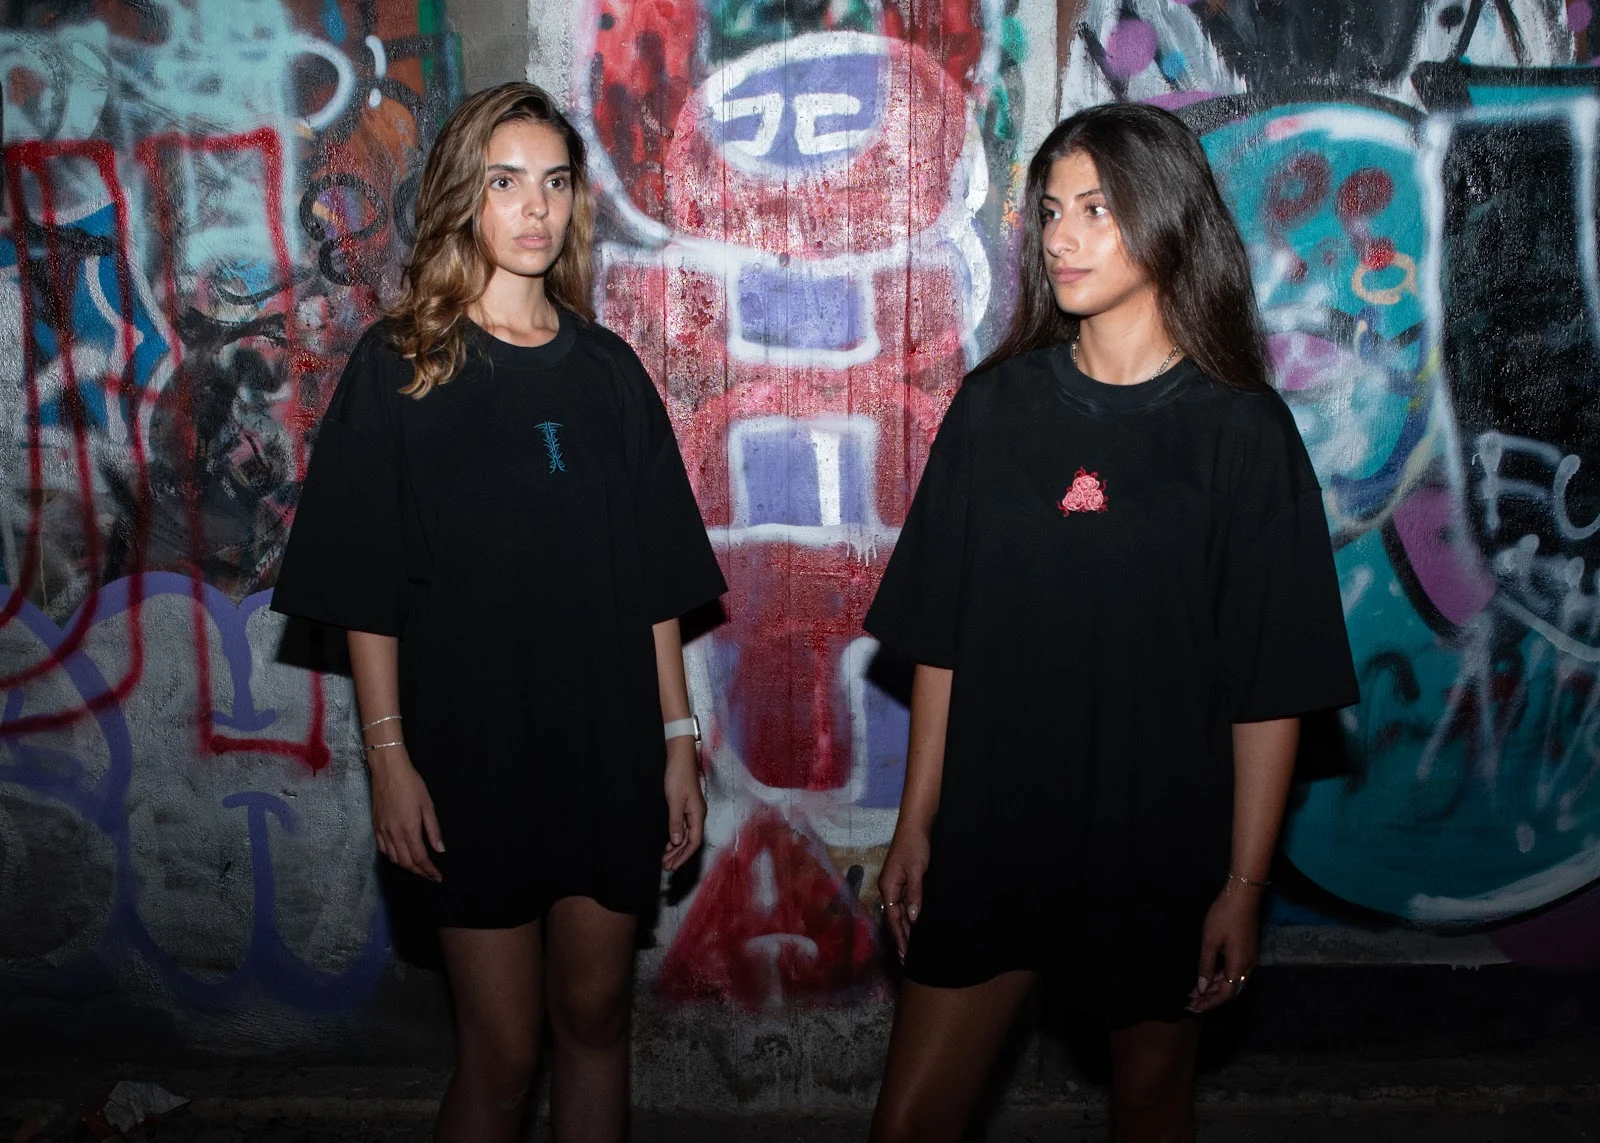
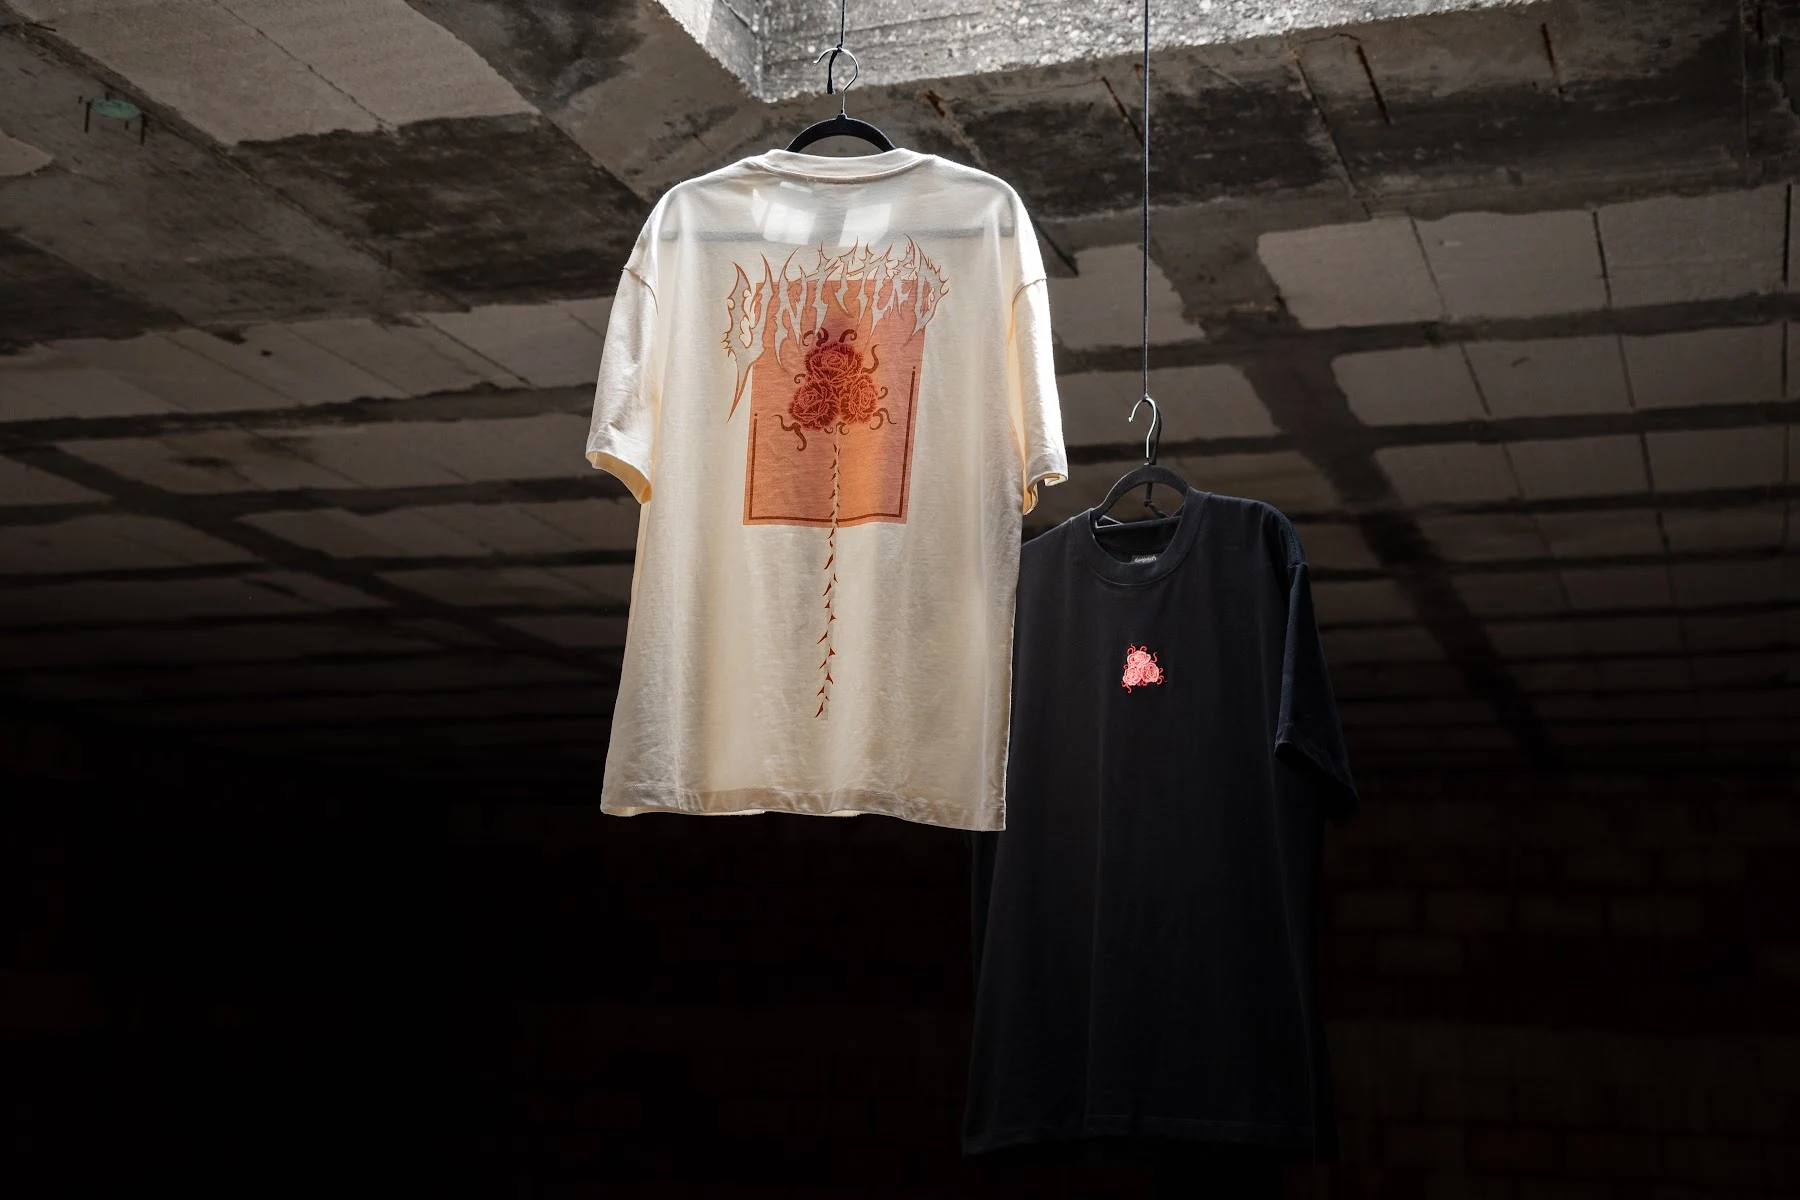
Update StyleShowcase with high-contrast skylight, back-print lineup, and bunker rack images for desktop and mobile

diff --git a/src/components/StyleShowcase.tsx b/src/components/StyleShowcase.tsx
@@ -11,26 +11,27 @@ const SLIDE_SECONDS = 5;
 const SLIDES = [
   {
     src: asset("/images/style-1.webp"),
-    // where the subject's face sits in each frame, so the portrait
-    // crop on mobile keeps it in view instead of slicing it off
-    pos: "50% 24%",
+    mobileSrc: asset("/images/style-1-mobile.webp"),
+    pos: "50% 42%",
     num: "01",
     title: "Heavyweight cotton",
     body: "340gsm, washed and enzyme-softened until it stopped arguing. Holds its shape for years.",
   },
   {
     src: asset("/images/style-2.webp"),
-    pos: "50% 24%",
+    mobileSrc: asset("/images/style-2-mobile.webp"),
+    pos: "50% 35%",
     num: "02",
     title: "Cut to move",
     body: "Oversized through the shoulder, tapered where it counts. It moves before you do.",
   },
   {
     src: asset("/images/style-3.webp"),
-    pos: "50% 30%",
+    mobileSrc: asset("/images/style-3-mobile.webp"),
+    pos: "50% 45%",
     num: "03",
     title: "Small runs only",
-    body: "10 shirts, numbered drops, no restocks. When it's gone, it never existed.",
+    body: "Numbered drops, no restocks. When it's gone, it never existed.",
   },
 ];
 
@@ -85,16 +86,21 @@ export default function StyleShowcase() {
     <section ref={sectionRef} className="style-showcase">
       <div className="style-showcase__bgs" aria-hidden="true">
         {SLIDES.map((slide, i) => (
-          <img
+          <picture
             key={slide.num}
-            src={slide.src}
-            alt=""
-            loading="lazy"
-            style={{ objectPosition: slide.pos }}
             className={
               "style-showcase__bg" + (i === active ? " is-active" : "")
             }
-          />
+          >
+            <source media="(max-width: 760px)" srcSet={slide.mobileSrc} />
+            <img
+              src={slide.src}
+              alt=""
+              loading="lazy"
+              style={{ objectPosition: slide.pos }}
+              className="style-showcase__bg-img"
+            />
+          </picture>
         ))}
         <div className="style-showcase__tint" />
       </div>

diff --git a/src/components/StyleShowcase.css b/src/components/StyleShowcase.css
@@ -18,9 +18,9 @@
 .style-showcase__bg {
   position: absolute;
   inset: 0;
+  display: block;
   width: 100%;
   height: 100%;
-  object-fit: cover;
   opacity: 0;
   transform: scale(1.04);
   transition:
@@ -31,6 +31,12 @@
 .style-showcase__bg.is-active {
   opacity: 1;
   transform: scale(1);
+}
+
+.style-showcase__bg-img {
+  width: 100%;
+  height: 100%;
+  object-fit: cover;
 }
 
 .style-showcase__tint {
